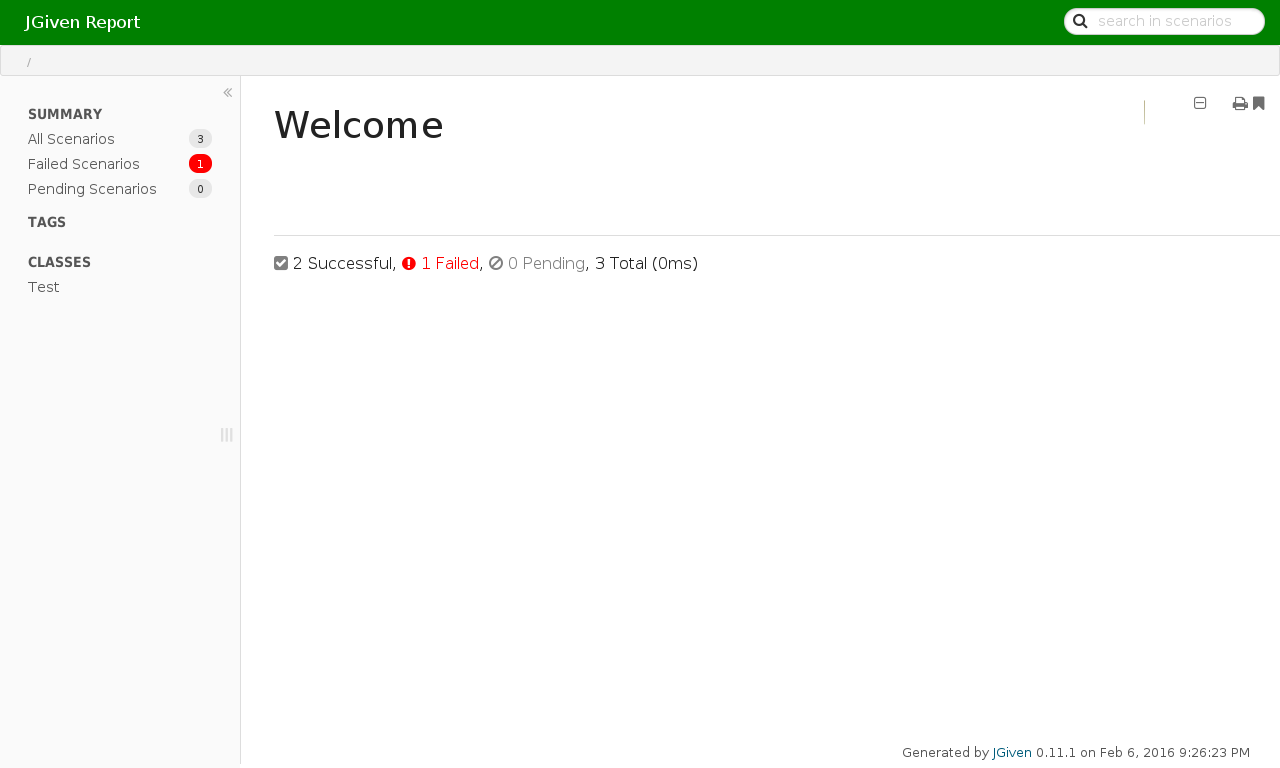
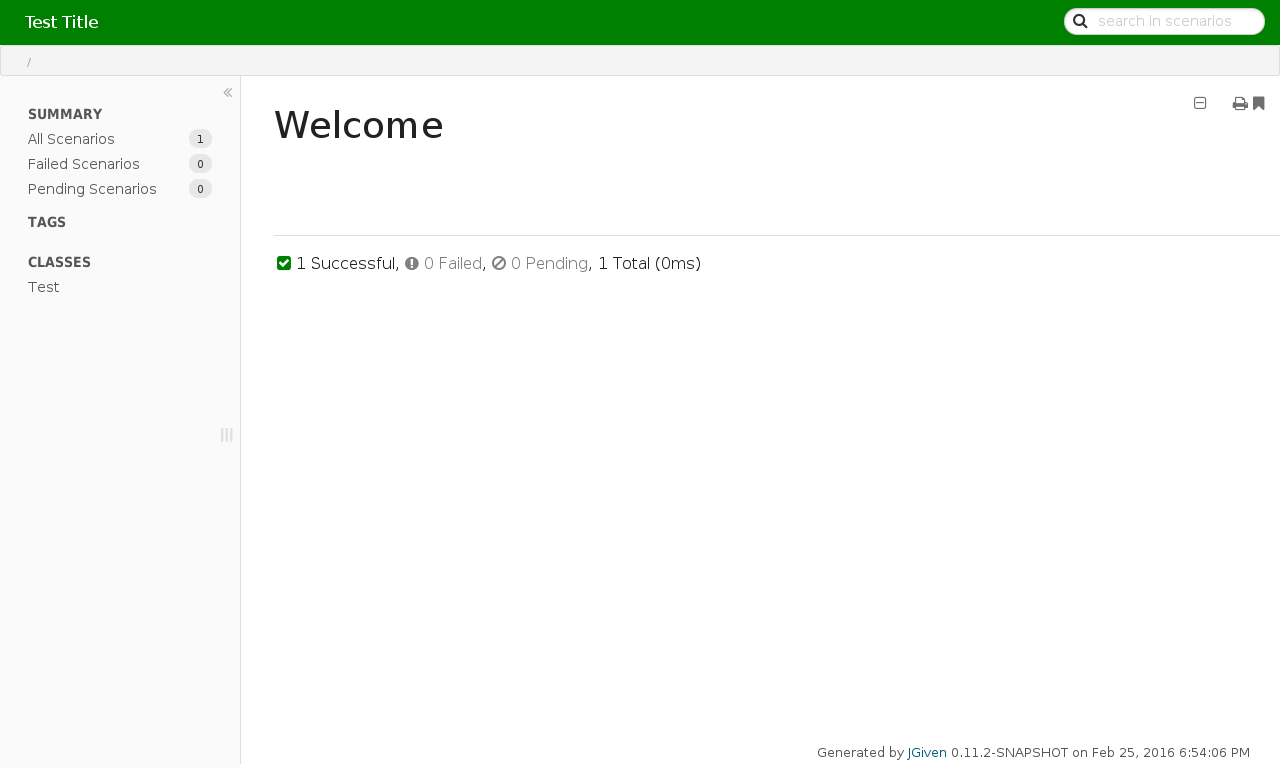
added generated jgiven report to gh-pages

diff --git a/jgiven-report/html5/data/data0.js b/jgiven-report/html5/data/data0.js
@@ -1,1 +1,1 @@
[2 lines of base64/hex data omitted]

diff --git a/jgiven-report/html5/data/tags.js b/jgiven-report/html5/data/tags.js
@@ -1,1 +1,1 @@
-jgivenReport.setTags({"tagTypeMap":{"Feature":{"type":"Feature","name":"Features","description":"","href":""},"FeatureCore":{"type":"FeatureCore","name":"Core Features","description":"","tags":["Feature"],"href":""},"FeatureCaseDiffs":{"type":"FeatureCaseDiffs","name":"Case Diffs","description":"In order to get a better overview over structurally different cases of a scenario\u003cbr\u003eAs a human,\u003cbr\u003eI want the differences highlighted in the generated report","tags":["FeatureCore"],"href":""},"FeatureReport":{"type":"FeatureReport","name":"Reporting","description":"JGiven can generate text and HTML reports. An AsciiDoc report is currently under development.","tags":["Feature"],"href":""},"FeatureTextReport":{"type":"FeatureTextReport","name":"Text Report","description":"Plain text reports can be generated","tags":["FeatureReport"],"href":""},"FeatureDataTables":{"type":"FeatureDataTables","name":"Data Tables","description":"In order to get a better overview over the different cases of a scenario\u003cbr\u003eAs a human,\u003cbr\u003eI want to have different cases represented as a data table","tags":["FeatureCore"],"href":""},"Issue":{"type":"Issue","description":"Scenarios of \u003ca href\u003d\u0027https://github.com/TNG/JGiven/issues/34\u0027\u003eIssue #34\u003c/a\u003e","prependType":true,"color":"orange","href":""},"FeatureTestFramework":{"type":"FeatureTestFramework","name":"Supported Test Frameworks","description":"JGiven can be used together with JUnit and TestNG","tags":["Feature"],"href":""},"FeatureJUnit":{"type":"FeatureJUnit","name":"JUnit","description":"Tests can be be executed with JUnit","tags":["FeatureTestFramework"],"href":""},"BrowserTest":{"type":"BrowserTest","description":"Tests with this tag use a browser for testing","color":"rgb(69, 158, 19)","href":""},"FeatureHtml5Report":{"type":"FeatureHtml5Report","name":"HTML5 Report","description":"In order to have an interactive JGiven report for non-developers\u003cbr\u003eAs a developer,\u003cbr\u003eI want that JGiven generates HTML5 reports","tags":["FeatureReport"],"href":""},"FeatureAttachments":{"type":"FeatureAttachments","name":"Attachments","description":"In order to get additional information about a step, like screenshots, for example\u003cbr\u003eAs a JGiven user,\u003cbr\u003eI want that steps can have attachments","tags":["FeatureCore"],"href":""},"FeatureTags":{"type":"FeatureTags","description":"Scenarios can be tagged with annotations","tags":["FeatureCore"],"href":""},"FeatureTagsWithCustomStyle":{"type":"FeatureTagsWithCustomStyle","name":"Tags with Custom Styles","description":"Tags can be arbitrarily styled with the \u0027style\u0027 attribute of the \u0027@IsTag\u0027 annotation. This tag shows how to apply such a custom style","style":"background-color: darkgreen; color: white; font-weight: bold","tags":["FeatureTags-Tags"],"href":""},"FeatureGerman":{"type":"FeatureGerman","name":"German Scenarios","description":"Scenarios can be written in German","tags":["FeatureCore"],"href":""},"FeatureTestNg":{"type":"FeatureTestNg","name":"TestNG","description":"Tests can be be executed with TestNG","tags":["FeatureTestFramework"],"href":""},"FeatureStepParameters":{"type":"FeatureStepParameters","name":"Step Parameters","description":"Steps can have parameters","tags":["FeatureCore"],"href":""},"FeatureAsciiDocReport":{"type":"FeatureAsciiDocReport","name":"AsciiDoc Report","description":"In order to easily combine hand-written documentation with JGiven scenarios\u003cbr\u003eAs a developer,\u003cbr\u003eI want that JGiven generates AsciiDoc reports","tags":["FeatureReport"],"href":""},"FeaturePending":{"type":"FeaturePending","name":"Pending Annotation","description":"As a good BDD practitioner,\u003cbr\u003eI want to write my scenarios before I start coding\u003cbr\u003eIn order to discuss them with business stakeholders","tags":["FeatureCore"],"href":""},"FeatureCaseDescriptions":{"type":"FeatureCaseDescriptions","name":"Case Descriptions","description":"Cases of parametrized scenarios can have custom descriptions by using the @CaseDescription annotation","tags":["FeatureCore"],"href":""}},"tags":{"Feature":{"tagType":"Feature"},"FeatureCore":{"tagType":"FeatureCore"},"FeatureCaseDiffs":{"tagType":"FeatureCaseDiffs"},"FeatureReport":{"tagType":"FeatureReport"},"FeatureTextReport":{"tagType":"FeatureTextReport"},"FeatureDataTables":{"tagType":"FeatureDataTables"},"Issue-#34":{"tagType":"Issue","value":"#34"},"Issue-#152":{"tagType":"Issue","value":"#152","description":"Scenarios of \u003ca href\u003d\u0027https://github.com/TNG/JGiven/issues/152\u0027\u003eIssue #152\u003c/a\u003e"},"Issue-#52":{"tagType":"Issue","value":"#52","description":"Scenarios of \u003ca href\u003d\u0027https://github.com/TNG/JGiven/issues/52\u0027\u003eIssue #52\u003c/a\u003e"},"Issue-#10":{"tagType":"Issue","value":"#10","description":"Scenarios of \u003ca href\u003d\u0027https://github.com/TNG/JGiven/issues/10\u0027\u003eIssue #10\u003c/a\u003e"},"Issue-#104":{"tagType":"Issue","value":"#104","description":"Scenarios of \u003ca href\u003d\u0027https://github.com/TNG/JGiven/issues/104\u0027\u003eIssue #104\u003c/a\u003e"},"FeatureTestFramework":{"tagType":"FeatureTestFramework"},"FeatureJUnit":{"tagType":"FeatureJUnit"},"BrowserTest":{"tagType":"BrowserTest"},"FeatureHtml5Report":{"tagType":"FeatureHtml5Report"},"FeatureAttachments":{"tagType":"FeatureAttachments"},"FeatureTags-Tags":{"tagType":"FeatureTags","value":"Tags"},"FeatureTagsWithCustomStyle":{"tagType":"FeatureTagsWithCustomStyle"},"Issue-#146":{"tagType":"Issue","value":"#146","description":"Scenarios of \u003ca href\u003d\u0027https://github.com/TNG/JGiven/issues/146\u0027\u003eIssue #146\u003c/a\u003e"},"Issue-#47":{"tagType":"Issue","value":"#47","description":"Scenarios of \u003ca href\u003d\u0027https://github.com/TNG/JGiven/issues/47\u0027\u003eIssue #47\u003c/a\u003e"},"Issue-#25":{"tagType":"Issue","value":"#25","description":"Scenarios of \u003ca href\u003d\u0027https://github.com/TNG/JGiven/issues/25\u0027\u003eIssue #25\u003c/a\u003e"},"Issue-#49":{"tagType":"Issue","value":"#49","description":"Scenarios of \u003ca href\u003d\u0027https://github.com/TNG/JGiven/issues/49\u0027\u003eIssue #49\u003c/a\u003e"},"FeatureGerman":{"tagType":"FeatureGerman"},"FeatureTestNg":{"tagType":"FeatureTestNg"},"Issue-#123":{"tagType":"Issue","value":"#123","description":"Scenarios of \u003ca href\u003d\u0027https://github.com/TNG/JGiven/issues/123\u0027\u003eIssue #123\u003c/a\u003e"},"Issue-#1":{"tagType":"Issue","value":"#1","description":"Scenarios of \u003ca href\u003d\u0027https://github.com/TNG/JGiven/issues/1\u0027\u003eIssue #1\u003c/a\u003e"},"FeatureStepParameters":{"tagType":"FeatureStepParameters"},"Issue-#163":{"tagType":"Issue","value":"#163","description":"Scenarios of \u003ca href\u003d\u0027https://github.com/TNG/JGiven/issues/163\u0027\u003eIssue #163\u003c/a\u003e"},"Issue-#32":{"tagType":"Issue","value":"#32","description":"Scenarios of \u003ca href\u003d\u0027https://github.com/TNG/JGiven/issues/32\u0027\u003eIssue #32\u003c/a\u003e"},"FeatureAsciiDocReport":{"tagType":"FeatureAsciiDocReport"},"FeaturePending":{"tagType":"FeaturePending"},"Issue-#4":{"tagType":"Issue","value":"#4","description":"Scenarios of \u003ca href\u003d\u0027https://github.com/TNG/JGiven/issues/4\u0027\u003eIssue #4\u003c/a\u003e"},"FeatureCaseDescriptions":{"tagType":"FeatureCaseDescriptions"}}} );
+jgivenReport.setTags({"tagTypeMap":{"Feature":{"type":"Feature","name":"Features","description":"","href":""},"FeatureCore":{"type":"FeatureCore","name":"Core Features","description":"","tags":["Feature"],"href":""},"FeatureCaseDiffs":{"type":"FeatureCaseDiffs","name":"Case Diffs","description":"In order to get a better overview over structurally different cases of a scenario\u003cbr\u003eAs a human,\u003cbr\u003eI want the differences highlighted in the generated report","tags":["FeatureCore"],"href":""},"FeatureReport":{"type":"FeatureReport","name":"Reporting","description":"JGiven can generate text and HTML reports. An AsciiDoc report is currently under development.","tags":["Feature"],"href":""},"FeatureTextReport":{"type":"FeatureTextReport","name":"Text Report","description":"Plain text reports can be generated","tags":["FeatureReport"],"href":""},"FeatureDataTables":{"type":"FeatureDataTables","name":"Data Tables","description":"In order to get a better overview over the different cases of a scenario\u003cbr\u003eAs a human,\u003cbr\u003eI want to have different cases represented as a data table","tags":["FeatureCore"],"href":""},"Issue":{"type":"Issue","description":"Scenarios of \u003ca href\u003d\u0027https://github.com/TNG/JGiven/issues/34\u0027\u003eIssue #34\u003c/a\u003e","prependType":true,"color":"orange","href":""},"FeatureTestFramework":{"type":"FeatureTestFramework","name":"Supported Test Frameworks","description":"JGiven can be used together with JUnit and TestNG","tags":["Feature"],"href":""},"FeatureJUnit":{"type":"FeatureJUnit","name":"JUnit","description":"Tests can be be executed with JUnit","tags":["FeatureTestFramework"],"href":""},"BrowserTest":{"type":"BrowserTest","description":"Tests with this tag use a browser for testing","color":"rgb(69, 158, 19)","href":""},"FeatureHtml5Report":{"type":"FeatureHtml5Report","name":"HTML5 Report","description":"In order to have an interactive JGiven report for non-developers\u003cbr\u003eAs a developer,\u003cbr\u003eI want that JGiven generates HTML5 reports","tags":["FeatureReport"],"href":""},"FeatureAttachments":{"type":"FeatureAttachments","name":"Attachments","description":"In order to get additional information about a step, like screenshots, for example\u003cbr\u003eAs a JGiven user,\u003cbr\u003eI want that steps can have attachments","tags":["FeatureCore"],"href":""},"FeatureTags":{"type":"FeatureTags","description":"Scenarios can be tagged with annotations","tags":["FeatureCore"],"href":""},"FeatureTagsWithCustomStyle":{"type":"FeatureTagsWithCustomStyle","name":"Tags with Custom Styles","description":"Tags can be arbitrarily styled with the \u0027style\u0027 attribute of the \u0027@IsTag\u0027 annotation. This tag shows how to apply such a custom style","style":"background-color: darkgreen; color: white; font-weight: bold","tags":["FeatureTags-Tags"],"href":""},"FeatureGerman":{"type":"FeatureGerman","name":"German Scenarios","description":"Scenarios can be written in German","tags":["FeatureCore"],"href":""},"FeatureTestNg":{"type":"FeatureTestNg","name":"TestNG","description":"Tests can be be executed with TestNG","tags":["FeatureTestFramework"],"href":""},"FeatureStepParameters":{"type":"FeatureStepParameters","name":"Step Parameters","description":"Steps can have parameters","tags":["FeatureCore"],"href":""},"FeatureAsciiDocReport":{"type":"FeatureAsciiDocReport","name":"AsciiDoc Report","description":"In order to easily combine hand-written documentation with JGiven scenarios\u003cbr\u003eAs a developer,\u003cbr\u003eI want that JGiven generates AsciiDoc reports","tags":["FeatureReport"],"href":""},"FeaturePending":{"type":"FeaturePending","name":"Pending Annotation","description":"As a good BDD practitioner,\u003cbr\u003eI want to write my scenarios before I start coding\u003cbr\u003eIn order to discuss them with business stakeholders","tags":["FeatureCore"],"href":""},"FeatureCaseDescriptions":{"type":"FeatureCaseDescriptions","name":"Case Descriptions","description":"Cases of parametrized scenarios can have custom descriptions by using the @CaseDescription annotation","tags":["FeatureCore"],"href":""}},"tags":{"Feature":{"tagType":"Feature"},"FeatureCore":{"tagType":"FeatureCore"},"FeatureCaseDiffs":{"tagType":"FeatureCaseDiffs"},"FeatureReport":{"tagType":"FeatureReport"},"FeatureTextReport":{"tagType":"FeatureTextReport"},"FeatureDataTables":{"tagType":"FeatureDataTables"},"Issue-#34":{"tagType":"Issue","value":"#34"},"Issue-#152":{"tagType":"Issue","value":"#152","description":"Scenarios of \u003ca href\u003d\u0027https://github.com/TNG/JGiven/issues/152\u0027\u003eIssue #152\u003c/a\u003e"},"Issue-#52":{"tagType":"Issue","value":"#52","description":"Scenarios of \u003ca href\u003d\u0027https://github.com/TNG/JGiven/issues/52\u0027\u003eIssue #52\u003c/a\u003e"},"Issue-#10":{"tagType":"Issue","value":"#10","description":"Scenarios of \u003ca href\u003d\u0027https://github.com/TNG/JGiven/issues/10\u0027\u003eIssue #10\u003c/a\u003e"},"Issue-#104":{"tagType":"Issue","value":"#104","description":"Scenarios of \u003ca href\u003d\u0027https://github.com/TNG/JGiven/issues/104\u0027\u003eIssue #104\u003c/a\u003e"},"FeatureTestFramework":{"tagType":"FeatureTestFramework"},"FeatureJUnit":{"tagType":"FeatureJUnit"},"BrowserTest":{"tagType":"BrowserTest"},"FeatureHtml5Report":{"tagType":"FeatureHtml5Report"},"Issue-#191":{"tagType":"Issue","value":"#191","description":"Scenarios of \u003ca href\u003d\u0027https://github.com/TNG/JGiven/issues/191\u0027\u003eIssue #191\u003c/a\u003e"},"FeatureAttachments":{"tagType":"FeatureAttachments"},"FeatureTags-Tags":{"tagType":"FeatureTags","value":"Tags"},"FeatureTagsWithCustomStyle":{"tagType":"FeatureTagsWithCustomStyle"},"Issue-#146":{"tagType":"Issue","value":"#146","description":"Scenarios of \u003ca href\u003d\u0027https://github.com/TNG/JGiven/issues/146\u0027\u003eIssue #146\u003c/a\u003e"},"Issue-#47":{"tagType":"Issue","value":"#47","description":"Scenarios of \u003ca href\u003d\u0027https://github.com/TNG/JGiven/issues/47\u0027\u003eIssue #47\u003c/a\u003e"},"Issue-#25":{"tagType":"Issue","value":"#25","description":"Scenarios of \u003ca href\u003d\u0027https://github.com/TNG/JGiven/issues/25\u0027\u003eIssue #25\u003c/a\u003e"},"Issue-#49":{"tagType":"Issue","value":"#49","description":"Scenarios of \u003ca href\u003d\u0027https://github.com/TNG/JGiven/issues/49\u0027\u003eIssue #49\u003c/a\u003e"},"FeatureGerman":{"tagType":"FeatureGerman"},"FeatureTestNg":{"tagType":"FeatureTestNg"},"Issue-#123":{"tagType":"Issue","value":"#123","description":"Scenarios of \u003ca href\u003d\u0027https://github.com/TNG/JGiven/issues/123\u0027\u003eIssue #123\u003c/a\u003e"},"Issue-#1":{"tagType":"Issue","value":"#1","description":"Scenarios of \u003ca href\u003d\u0027https://github.com/TNG/JGiven/issues/1\u0027\u003eIssue #1\u003c/a\u003e"},"FeatureStepParameters":{"tagType":"FeatureStepParameters"},"Issue-#163":{"tagType":"Issue","value":"#163","description":"Scenarios of \u003ca href\u003d\u0027https://github.com/TNG/JGiven/issues/163\u0027\u003eIssue #163\u003c/a\u003e"},"Issue-#32":{"tagType":"Issue","value":"#32","description":"Scenarios of \u003ca href\u003d\u0027https://github.com/TNG/JGiven/issues/32\u0027\u003eIssue #32\u003c/a\u003e"},"FeatureAsciiDocReport":{"tagType":"FeatureAsciiDocReport"},"FeaturePending":{"tagType":"FeaturePending"},"Issue-#4":{"tagType":"Issue","value":"#4","description":"Scenarios of \u003ca href\u003d\u0027https://github.com/TNG/JGiven/issues/4\u0027\u003eIssue #4\u003c/a\u003e"},"FeatureCaseDescriptions":{"tagType":"FeatureCaseDescriptions"}}} );

diff --git a/jgiven-report/html5/index.html b/jgiven-report/html5/index.html
@@ -668,7 +668,7 @@
 
         <div class="footer-bottom" ng-if="!currentPage.embed">
           <div class="small-12 columns">
-            Generated by <a href="http://jgiven.org">JGiven</a> 0.11.1 on
+            Generated by <a href="http://jgiven.org">JGiven</a> 0.11.2-SNAPSHOT on
             {{metaData.created}}
           </div>
         </div>

diff --git a/jgiven-report/html5/data/metaData.js b/jgiven-report/html5/data/metaData.js
@@ -1,1 +1,1 @@
-jgivenReport.setMetaData({"created":"Feb 6, 2016 9:26:32 PM","title":"JGiven Report","data":["data0.js"]} );
+jgivenReport.setMetaData({"created":"Feb 25, 2016 6:54:13 PM","title":"JGiven Report","data":["data0.js"]} );
